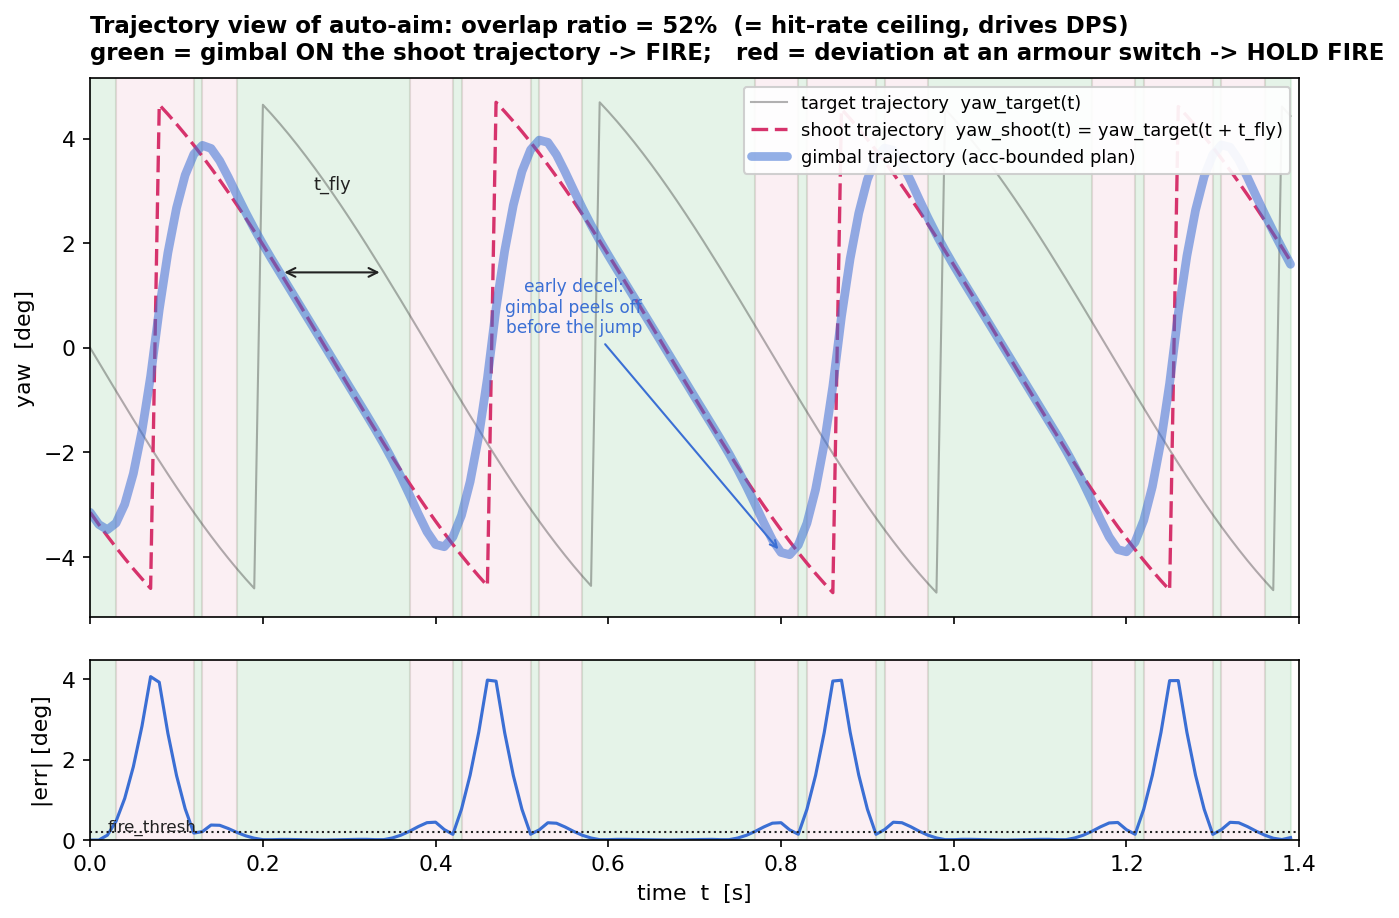
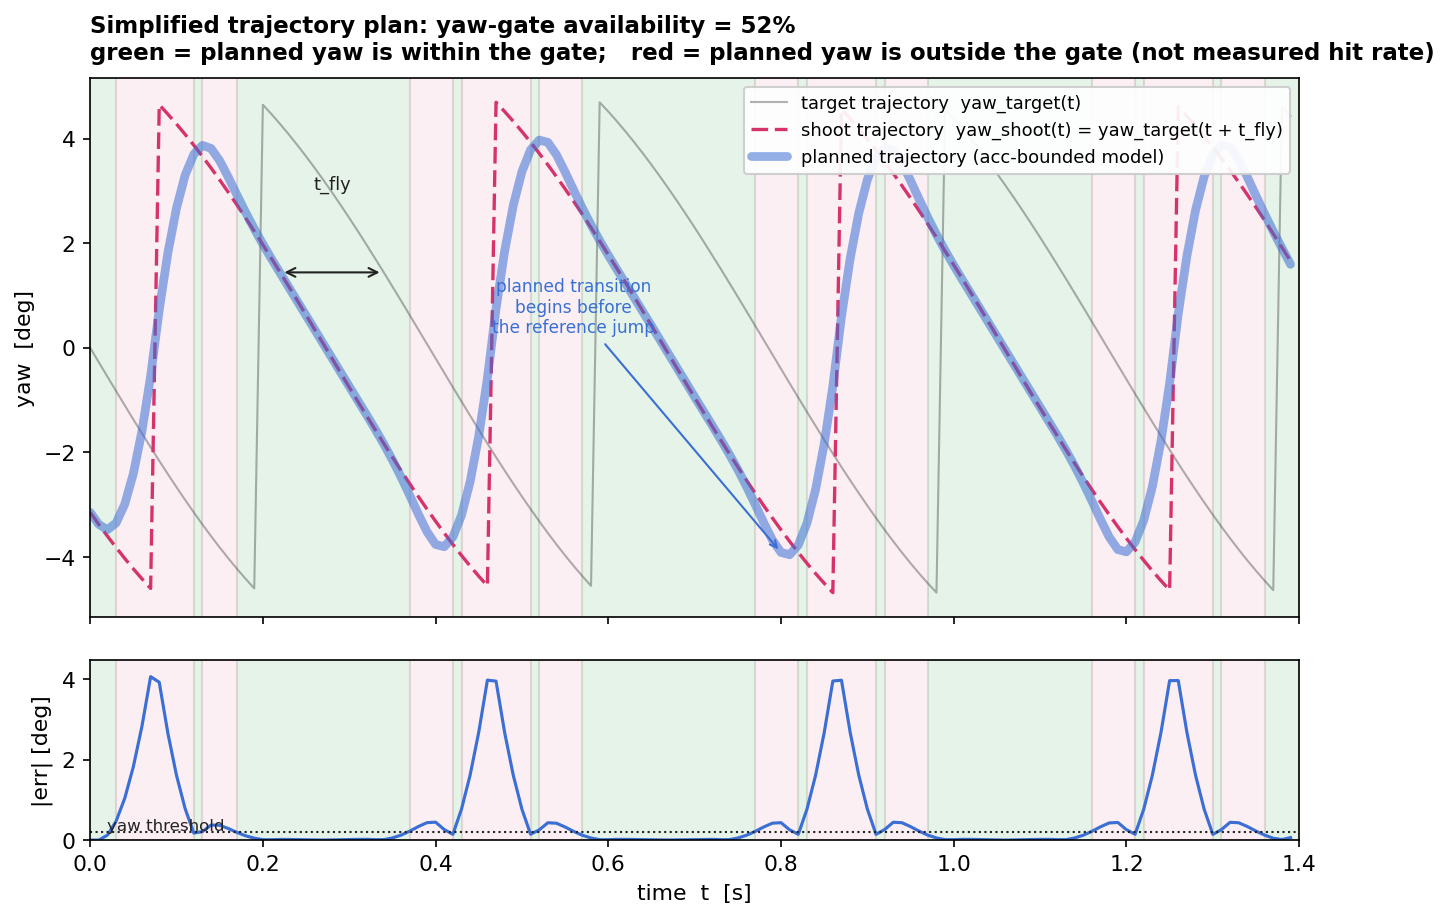
style(application): 校准自瞄架构与规划边界

diff --git a/examples/application/app_autoaim_trajectory.py b/examples/application/app_autoaim_trajectory.py
@@ -1,19 +1,19 @@
 # Trajectory-view of auto-aim, for the system-integration chapter.
 #
-# Reproduces, in miniature, the sp_vision-25 "trajectory planner" idea:
+# Illustrates, in miniature, the sp_vision-25 "trajectory planner" idea:
 #   * a spinning enemy (small-top) -> the shoot trajectory yaw_shoot(t)
 #     (the target trajectory advanced by one bullet flight time t_fly),
 #     which is a saw-tooth because the nearest armour switches every 90 deg;
-#   * a feasible GIMBAL trajectory found by a finite-horizon,
-#     acceleration-bounded least-squares (the same box-constrained QP the
-#     planner hands to TinyMPC): min ||pos - shoot||^2 + lam||acc||^2 s.t.
-#     |acc| <= a_max, double integrator pos'=vel, vel'=acc;
-#   * fire windows = where |gimbal - shoot| < fire_thresh (overlap), the
-#     complement is hold-fire (deviation).
+#   * a feasible planned trajectory found by a finite-horizon,
+#     acceleration-bounded least-squares problem with the same basic
+#     box-constrained structure as the inspected TinyMPC setup:
+#     min ||pos - shoot||^2 + lam||acc||^2 s.t. |acc| <= a_max,
+#     double integrator pos'=vel, vel'=acc;
+#   * gate-eligible windows = where |plan - shoot| < fire_thresh; this only
+#     evaluates the simplified plan and is not a measured hit rate.
 #
-# The read-it rule: overlap fraction == theoretical hit-rate ceiling and
-# drives DPS; the gimbal DECELERATES EARLY before each armour switch because
-# a jump it cannot follow at bounded acceleration is cheaper to blend into.
+# The planned reference can begin transitioning before an armour switch because
+# a bounded-acceleration trajectory cannot follow the discontinuous reference.
 #
 # Generates chapters/4.Application/images/app-autoaim-trajectory.png
 import numpy as np
@@ -49,8 +49,8 @@ def target_yaw(tt):
 yaw_target = np.array([target_yaw(tt) for tt in t])            # target trajectory
 yaw_shoot = np.array([target_yaw(tt + t_fly) for tt in t])     # advanced by t_fly
 
-# ---- feasible gimbal trajectory: acceleration-bounded LS (the planner QP) ---
-a_max = 40.0         # gimbal max angular accel [rad/s^2] = motor torque / inertia
+# ---- feasible plan: acceleration-bounded LS (a simplified planner QP) -------
+a_max = 40.0         # synthetic yaw-acceleration bound [rad/s^2]
 lam = 1e-7           # tiny effort weight (the R in the QP)
 
 # double integrator: pos = M @ u + pos0 + t*vel0  (state [pos,vel], input acc)
@@ -64,14 +64,16 @@ base = pos0 + t * vel0
 A = np.vstack([M, np.sqrt(lam) * np.eye(N - 1)])
 b = np.concatenate([yaw_shoot - base, np.zeros(N - 1)])
 sol = lsq_linear(A, b, bounds=(-a_max, a_max), max_iter=800, tol=1e-11)
+if not sol.success:
+    raise RuntimeError(f"trajectory solve failed: {sol.message}")
 u = sol.x
-yaw_gimbal = base + M @ u
+yaw_plan = base + M @ u
 
-# ---- fire windows: overlap = |gimbal - shoot| < fire_thresh ----------------
-fire_thresh = 0.0035                     # rad, the planner's hypot() gate (~0.2 deg)
-err = np.abs(yaw_gimbal - yaw_shoot)
+# ---- yaw gate: |planned yaw - shoot yaw| < fire_thresh ----------------------
+fire_thresh = 0.0035  # standard3 threshold; this script checks yaw only
+err = np.abs(yaw_plan - yaw_shoot)
 fire = err < fire_thresh
-overlap = fire.mean()                    # coincidence ratio = hit-rate ceiling
+availability = fire.mean()               # yaw-gate availability in this model
 
 # =========================== plot ===========================================
 fig, (ax, axe) = plt.subplots(
@@ -87,11 +89,13 @@ def shade(axis):
     edges = np.flatnonzero(np.diff(np.concatenate([[0], inband, [0]])))
     starts, ends = edges[::2], edges[1::2]
     for s, e in zip(starts, ends):
-        axis.axvspan(t[s], t[min(e, N - 1)], color=GREEN, alpha=0.12, zorder=0)
+        end = t[e] if e < N else T
+        axis.axvspan(t[s], end, color=GREEN, alpha=0.12, zorder=0)
     hold = 1 - inband
     edges = np.flatnonzero(np.diff(np.concatenate([[0], hold, [0]])))
     for s, e in zip(edges[::2], edges[1::2]):
-        axis.axvspan(t[s], t[min(e, N - 1)], color=RED, alpha=0.08, zorder=0)
+        end = t[e] if e < N else T
+        axis.axvspan(t[s], end, color=RED, alpha=0.08, zorder=0)
 
 shade(ax)
 
@@ -99,8 +103,8 @@ ax.plot(t, yaw_target * deg, color=INK, lw=1.0, alpha=0.35,
         label="target trajectory  yaw_target(t)")
 ax.plot(t, yaw_shoot * deg, color=RED, lw=1.6, ls=(0, (5, 2)),
         label="shoot trajectory  yaw_shoot(t) = yaw_target(t + t_fly)")
-ax.plot(t, yaw_gimbal * deg, color=BLUE, lw=4.2, alpha=0.55,
-        solid_capstyle="round", label="gimbal trajectory (acc-bounded plan)")
+ax.plot(t, yaw_plan * deg, color=BLUE, lw=4.2, alpha=0.55,
+        solid_capstyle="round", label="planned trajectory (acc-bounded model)")
 
 # annotate the t_fly lead and one early-deceleration
 i0 = 22
@@ -110,30 +114,29 @@ ax.annotate("", xy=(t[i0], yaw_shoot[i0] * deg),
 ax.text(t[i0] + t_fly / 2, yaw_shoot[i0] * deg + 1.6, "t_fly", ha="center",
         fontsize=8.6, color=INK)
 
-# mark an early-decel: find a switch (big jump in shoot) and point just before
+# Mark one transition that starts before a reference jump.
 jumps = np.flatnonzero(np.abs(np.diff(yaw_shoot)) > 0.02)
 if jumps.size:
     js = jumps[len(jumps) // 2]
-    ax.annotate("early decel:\ngimbal peels off\nbefore the jump",
-                xy=(t[js - 6], yaw_gimbal[js - 6] * deg),
-                xytext=(t[js] - 0.30, yaw_gimbal[js - 6] * deg + 4.2),
+    ax.annotate("planned transition\nbegins before\nthe reference jump",
+                xy=(t[js - 6], yaw_plan[js - 6] * deg),
+                xytext=(t[js] - 0.30, yaw_plan[js - 6] * deg + 4.2),
                 fontsize=8.2, color=BLUE, ha="center",
                 arrowprops=dict(arrowstyle="->", color=BLUE, lw=1.0))
 
 ax.set_ylabel("yaw  [deg]")
 ax.legend(loc="upper right", fontsize=8.6, framealpha=0.92)
 ax.set_title(
-    f"Trajectory view of auto-aim: overlap ratio = {overlap*100:.0f}%  "
-    f"(= hit-rate ceiling, drives DPS)\n"
-    "green = gimbal ON the shoot trajectory -> FIRE;   "
-    "red = deviation at an armour switch -> HOLD FIRE",
+    f"Simplified trajectory plan: yaw-gate availability = {availability*100:.0f}%\n"
+    "green = planned yaw is within the gate;   "
+    "red = planned yaw is outside the gate (not measured hit rate)",
     fontsize=11, fontweight="bold", pad=9, loc="left")
 
 # error panel with the fire threshold
 shade(axe)
 axe.plot(t, err * deg, color=BLUE, lw=1.5)
 axe.axhline(fire_thresh * deg, color=INK, lw=1.0, ls=":")
-axe.text(t[2], fire_thresh * deg * 1.15, "fire_thresh", fontsize=8.0, color=INK)
+axe.text(t[2], fire_thresh * deg * 1.15, "yaw threshold", fontsize=8.0, color=INK)
 axe.set_ylabel("|err| [deg]")
 axe.set_xlabel("time  t  [s]")
 axe.set_ylim(0, err.max() * deg * 1.1)
@@ -141,5 +144,5 @@ axe.set_xlim(0, T)
 
 fig.savefig("chapters/4.Application/images/app-autoaim-trajectory.png",
             bbox_inches="tight", facecolor="white")
-print(f"saved app-autoaim-trajectory.png  overlap={overlap*100:.1f}%  "
+print(f"saved app-autoaim-trajectory.png  availability={availability*100:.1f}%  "
       f"max|err|={err.max()*deg:.2f}deg  a_max_used={np.abs(u).max():.1f}")

diff --git a/examples/application/app_autoaim_architecture.py b/examples/application/app_autoaim_architecture.py
@@ -1,9 +1,9 @@
 # Auto-aim system architecture & dataflow for the system-integration chapter.
-# Draws the canonical ROS 2 orchestration: camera + detector in one
+# Draws the inspected rm_vision ROS 2 orchestration: camera + detector in one
 # intra-process container, tracker in the odom frame, serial driver bridging
-# to the MCU. robot_state_publisher emits only the static chain on /tf_static;
-# the load-bearing odom->gimbal_link is broadcast by the serial driver at
-# whatever rate MCU packets arrive.
+# to the downstream controller. robot_state_publisher emits the fixed chain on
+# /tf_static, while the serial driver independently broadcasts the dynamic
+# odom->gimbal_link whenever a valid receive packet arrives.
 # Timing annotations show the staggered start (serial +1.5 s, tracker +2.0 s).
 # Generates chapters/4.Application/images/app-autoaim-architecture.png
 import matplotlib as mpl
@@ -44,7 +44,7 @@ cam = (3, 15)          # ends 18
 det = (27, 15)         # ends 42
 trk = (51, 17)         # ends 68
 ser = (77, 13)         # ends 90
-mcu = (98, 11)         # ends 109
+mcu = (96, 14)         # ends 110
 
 # ---- intra-process container (camera + detector share one process) --------
 ax.add_patch(Rectangle((1.4, 32), 42.2, 24.5, linewidth=1.3, edgecolor=GREEN,
@@ -52,11 +52,11 @@ ax.add_patch(Rectangle((1.4, 32), 42.2, 24.5, linewidth=1.3, edgecolor=GREEN,
 ax.text(22.5, 54.4, "component container  ·  use_intra_process_comms = True",
         ha="center", va="center", fontsize=8.8, color=GREEN, fontweight="bold")
 
-box(*cam, "Camera Node", "expose 2.5 ms / gain 8\nBayer -> cv::Mat", BLUE, "#2A55B0")
-box(*det, "Armor Detector", "4-stage cascade + MLP\nPnP -> camera frame", BLUE, "#2A55B0")
+box(*cam, "Camera Node", "configured: 2.5 ms / gain 8\nintra-process publisher", BLUE, "#2A55B0")
+box(*det, "Armor Detector", "light bars + classifier\nPnP -> camera frame", BLUE, "#2A55B0")
 box(*trk, "Armor Tracker", "9-state EKF\nwhole-vehicle model\nframe: odom", MAGENTA, "#A61E4D")
-box(*ser, "Serial Driver", "TX / RX threads\nTF broadcaster", ORANGE, "#B96A00")
-box(*mcu, "MCU (STM32)", "ballistics\n+ fire", INK, "#000000")
+box(*ser, "Serial Driver", "target subscription\nRX thread + TF", ORANGE, "#B96A00")
+box(*mcu, "Downstream", "target-state consumer\ncode not inspected", INK, "#000000")
 
 # ---- forward pipeline arrows (drawn under the topic chips) -----------------
 def fwd(x0, x1, col):
@@ -67,12 +67,12 @@ def fwd(x0, x1, col):
 fwd(18, 27, BLUE);   topic(22.5, "/image_raw", BLUE)
 fwd(42, 51, BLUE);   topic(46.5, "/detector/\narmors", BLUE)
 fwd(68, 77, MAGENTA); topic(72.5, "/tracker/\ntarget", MAGENTA)
-fwd(90, 98, ORANGE); topic(94, "Send\nPacket", ORANGE)
+fwd(90, 96, ORANGE); topic(93, "Target\npacket", ORANGE)
 
-# ---- MCU -> serial feedback (gimbal pose + measured muzzle speed) ----------
-ax.add_patch(FancyArrowPatch((98, YB + 3), (90, YB + 3), arrowstyle="-|>",
+# ---- MCU -> serial feedback in the inspected packet ------------------------
+ax.add_patch(FancyArrowPatch((96, YB + 3), (90, YB + 3), arrowstyle="-|>",
              mutation_scale=12, linewidth=1.5, color=INK, zorder=4))
-ax.text(94, YB + 1.0, "gimbal q, v0", ha="center", va="center", fontsize=7.6,
+ax.text(93, YB - 1.8, "RPY / aim xyz / color / reset", ha="center", va="center", fontsize=7.0,
         color=INK, zorder=5,
         bbox=dict(boxstyle="round,pad=0.15", fc="white", ec="none", alpha=0.9))
 
@@ -83,7 +83,7 @@ ax.add_patch(FancyBboxPatch((48, YT), 20, HT,
              edgecolor="#5A5A5A", facecolor=GRAY, zorder=3))
 ax.text(58, YT + HT * 0.66, "robot_state_publisher", ha="center", va="center",
         fontsize=10, fontweight="bold", color="white", zorder=4)
-ax.text(58, YT + HT * 0.30, "URDF -> /tf_static\ngimbal -> camera -> optical",
+ax.text(58, YT + HT * 0.30, "fixed joints -> /tf_static\ngimbal -> camera -> optical",
         ha="center", va="center", fontsize=8.0, color="white", zorder=4,
         linespacing=1.3)
 
@@ -91,24 +91,34 @@ ax.text(58, YT + HT * 0.30, "URDF -> /tf_static\ngimbal -> camera -> optical",
 ax.add_patch(FancyArrowPatch((60, YT + HT), (59, YB), arrowstyle="-|>",
              mutation_scale=13, linewidth=1.6, color="#5A5A5A",
              linestyle=(0, (4, 2)), zorder=2))
-ax.text(45.5, 25.5, "TF: pose ->\nodom frame", ha="center", va="center",
+ax.text(45.5, 25.5, "fixed TF:\ngimbal -> optical", ha="center", va="center",
         fontsize=7.9, color="#5A5A5A", linespacing=1.2)
 
-# serial feeds the live gimbal transform into the TF tree
-ax.add_patch(FancyArrowPatch((80, YB), (66, YT + HT - 1),
-             connectionstyle="arc3,rad=-0.18", arrowstyle="-|>",
+# The serial driver is a second TF broadcaster; it does not feed
+# robot_state_publisher.
+ax.add_patch(FancyArrowPatch((80, YB), (66, YB + 0.8),
+             connectionstyle="arc3,rad=-0.48", arrowstyle="-|>",
              mutation_scale=12, linewidth=1.5, color=ORANGE,
              linestyle=(0, (4, 2)), zorder=2))
-ax.text(79.5, 24.0, "odom->gimbal\n+ timestamp_offset", ha="center", va="center",
+ax.text(78.5, 25.0, "independent dynamic TF:\nodom->gimbal + timestamp_offset",
+        ha="center", va="center",
         fontsize=7.7, color="#B96A00", linespacing=1.2)
 
-# serial -> detector: param set (detect_color / reset_tracker)
+# serial -> detector: enemy-colour parameter
 ax.add_patch(FancyArrowPatch((79, YB), (40, YB - 0.5),
              connectionstyle="arc3,rad=0.30", arrowstyle="-|>",
              mutation_scale=12, linewidth=1.4, color="#7048E8",
              linestyle=(0, (4, 2)), zorder=2))
-ax.text(30, 26.0, "param set: detect_color / reset_tracker", ha="center",
+ax.text(31, 25.8, "detect_color parameter -> detector", ha="center",
         va="center", fontsize=7.9, color="#7048E8")
+
+# serial -> tracker: reset service
+ax.add_patch(FancyArrowPatch((79, YB + 0.5), (65, YB - 0.5),
+             connectionstyle="arc3,rad=0.22", arrowstyle="-|>",
+             mutation_scale=12, linewidth=1.4, color=MAGENTA,
+             linestyle=(0, (4, 2)), zorder=2))
+ax.text(68, 29.0, "reset service -> tracker", ha="center", va="center",
+        fontsize=7.8, color=MAGENTA)
 
 # ---- startup timeline (bottom lane) ---------------------------------------
 ty = 2.6
@@ -122,8 +132,7 @@ for tx, lab, col in [(10, "t = 0\ncontainer + robot_state_pub", GREEN),
     ax.text(tx, ty - 1.3, lab, ha="center", va="top", fontsize=8.0, color=col,
             linespacing=1.2)
 
-ax.set_title("Auto-aim dataflow: camera -> detect -> track (odom) -> serial -> MCU.   "
-             "TF tree and startup order are load-bearing, not incidental.",
+ax.set_title("rm_vision snapshot: independent TF inputs and launch timing",
              fontsize=11.5, fontweight="bold", pad=8)
 
 fig.tight_layout()
